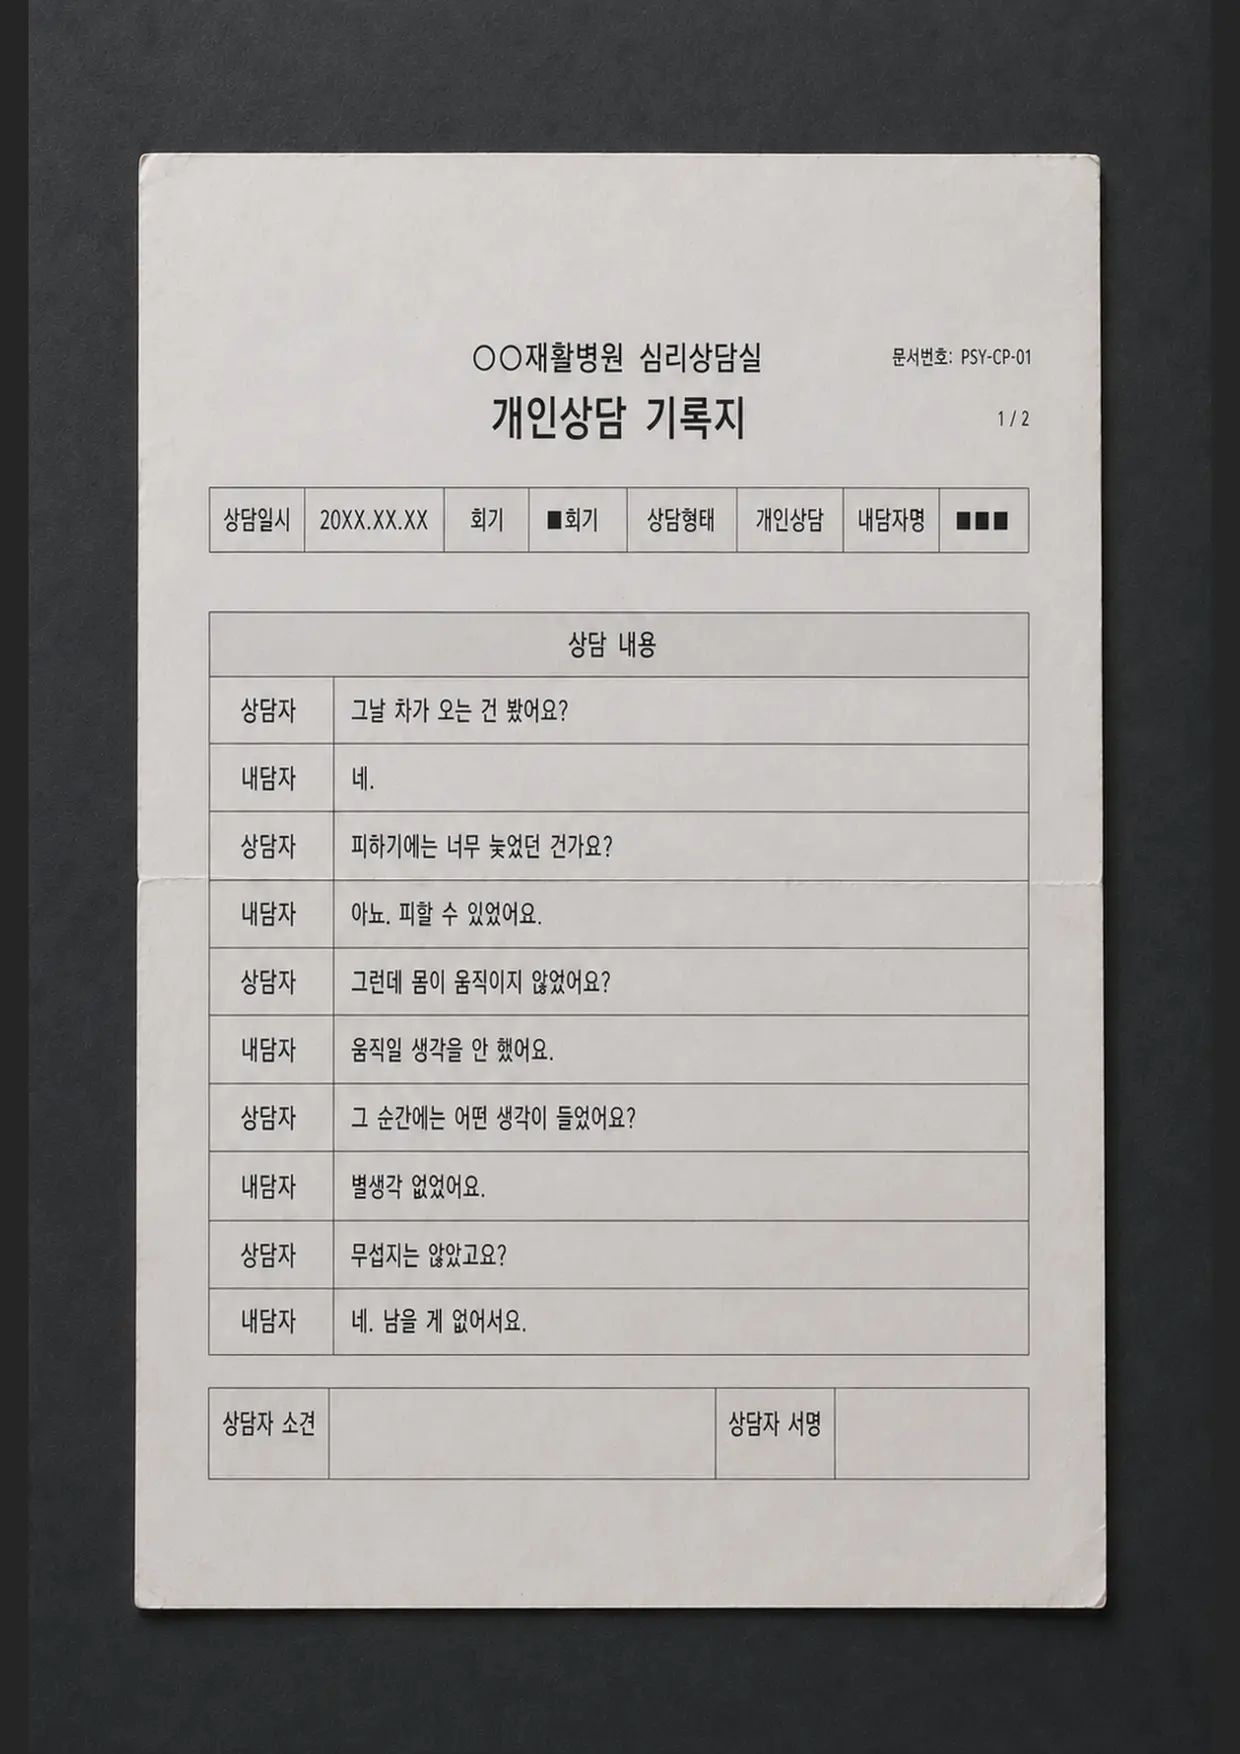
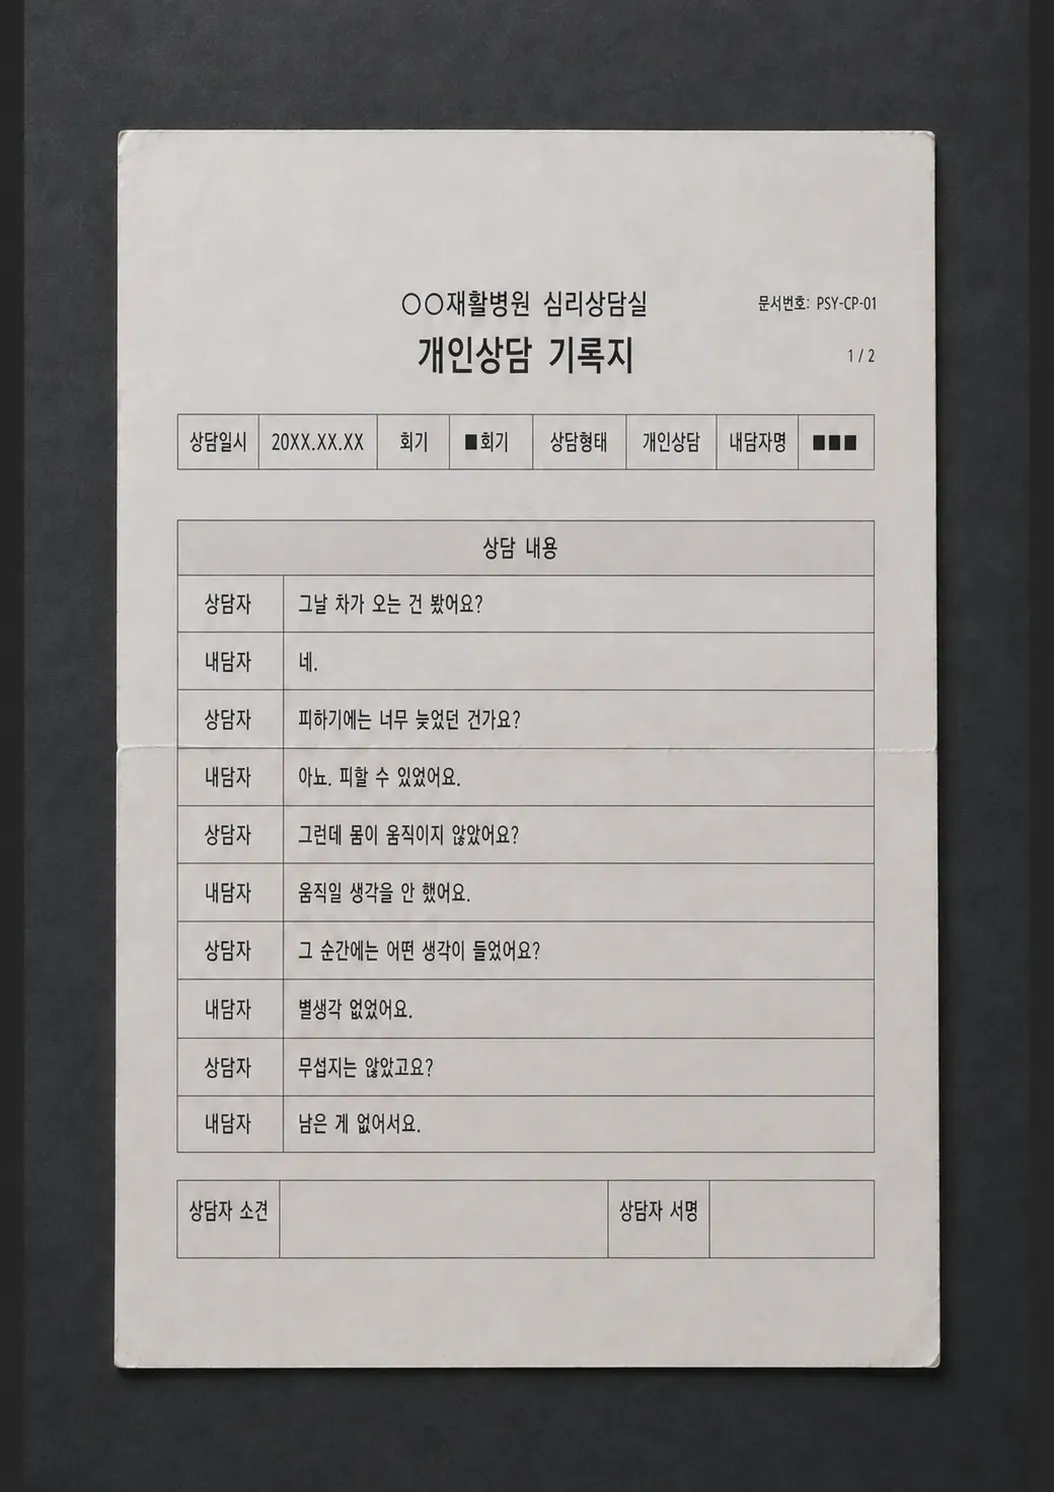
민현 상담 기록 1을 새 그림으로 바꿨다
받은 그대로 넣는다 — 안 자르고 안 늘렸다. 1054×1492, 55KB.
히든 문서는 원래 크기가 제각각이라(일기 1024×1536, SNS 460×1397)
맞출 규격이 없다. index.html v=60.

Claude-Session: https://claude.ai/code/session_01Abubm1X1ct2srazJBiqqff

diff --git a/index.html b/index.html
@@ -16,7 +16,7 @@
 <script src="https://unpkg.com/react-dom@18/umd/react-dom.production.min.js"></script>
 <script src="https://unpkg.com/@babel/standalone@7/babel.min.js"></script>
 <!-- 데모 대사·매칭. 문구집에서 만들어진 파일이라 직접 고치지 않는다 -->
-<script src="demo-lines.js?v=59"></script>
+<script src="demo-lines.js?v=60"></script>
 <script>
 /* 리스타트의 뒷정리.
    지우고 바로 다시 여는 방식은 안 됐다 — 다시 열리기 전 몇 밀리초 사이에
@@ -30,16 +30,16 @@ try{ if(localStorage.getItem("null_wipe")){ localStorage.clear(); } }catch(e){}
      고치고 올릴 때 네 개를 같이 올린다. 하나만 올리면 그 하나만 새것이 된다.
      ★ 이 넷 중 하나라도 고쳤으면 번호를 올린다. 안 올리면 배포는 됐는데
        사람은 안 고쳐졌다고 한다 — 두 번 겪었다. -->
-<link rel="stylesheet" href="null.css?v=59">
+<link rel="stylesheet" href="null.css?v=60">
 </head>
 <body>
 <div id="root"></div>
 <!-- 데이터·규칙. JSX가 없어서 바벨을 안 탄다 -->
-<script src="app-data.js?v=59"></script>
+<script src="app-data.js?v=60"></script>
 <!-- 화면 조각 — 아이콘·창·방 목록. JSX라 바벨을 탄다 -->
-<script type="text/babel" src="app-ui.js?v=59"></script>
+<script type="text/babel" src="app-ui.js?v=60"></script>
 <!-- 앱 — 상태를 들고 있는 곳 -->
-<script type="text/babel" src="app.js?v=59"></script>
+<script type="text/babel" src="app.js?v=60"></script>
 <template id="__bundler_thumbnail"><svg xmlns="http://www.w3.org/2000/svg" viewBox="0 0 100 100"><rect width="100" height="100" fill="#b8a5e3"/><text x="50" y="58" text-anchor="middle" font-family="monospace" font-size="26" letter-spacing="4" fill="#fff">NULL</text></svg></template>
 </body>
 </html>
